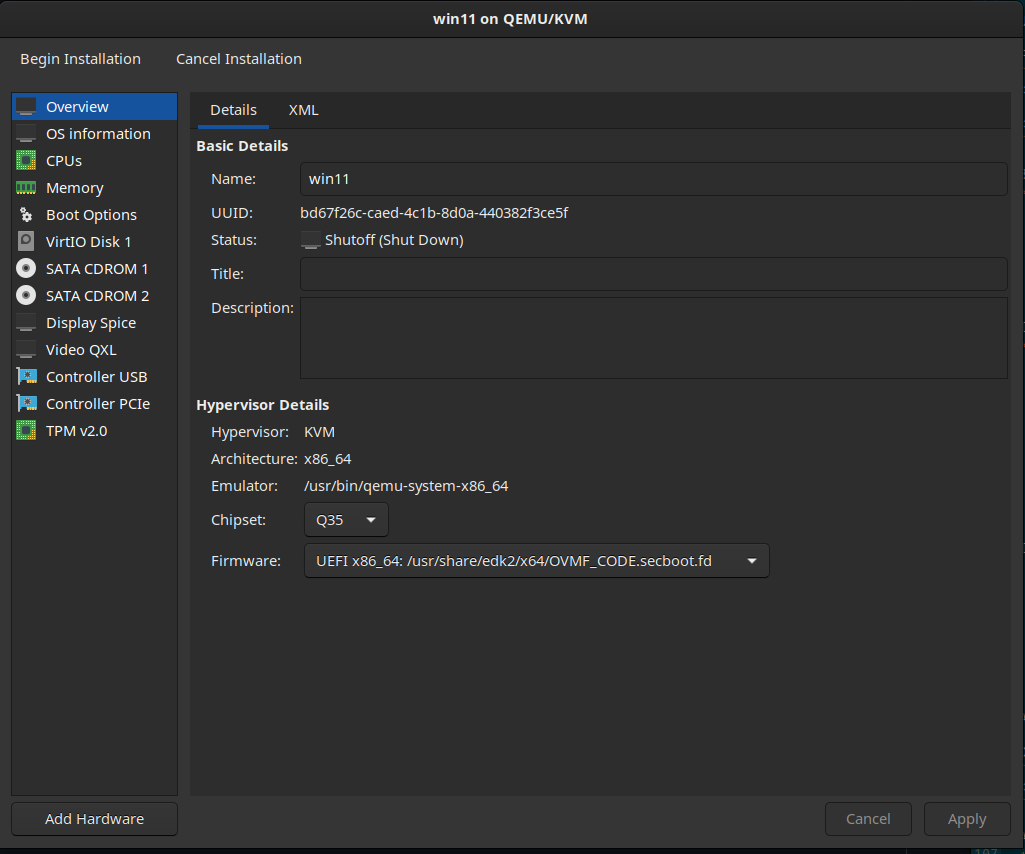
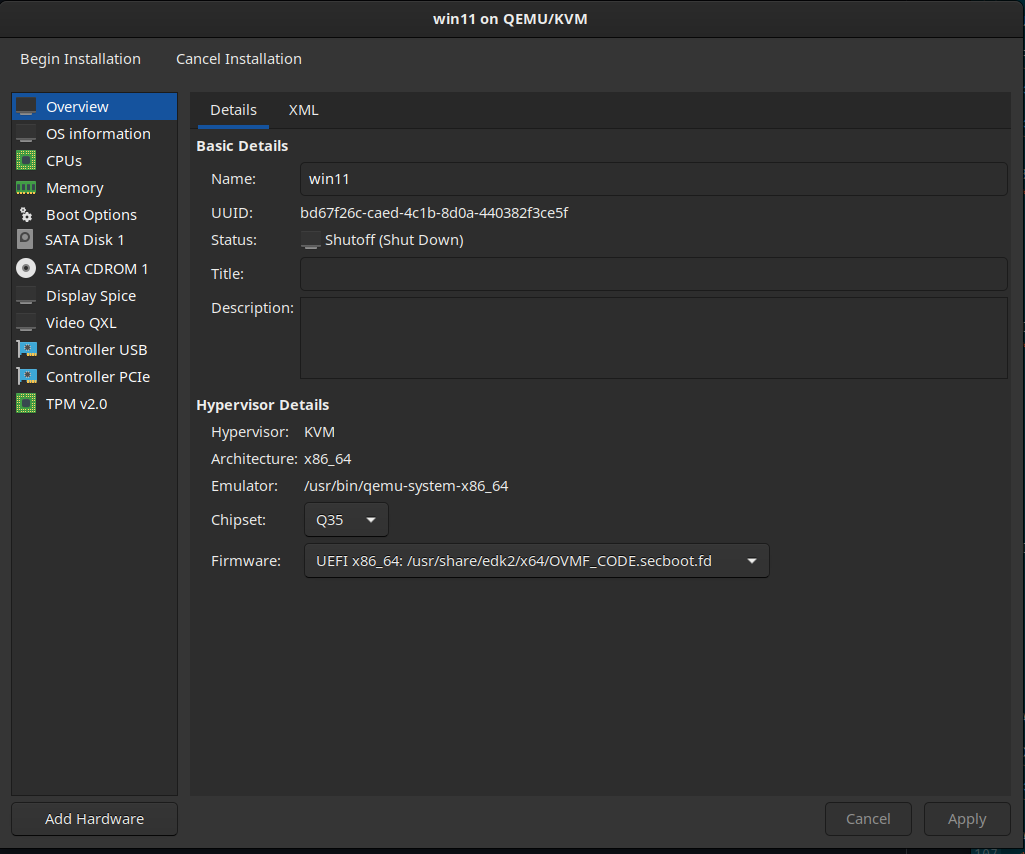
remove setup for virtio disk

Changed region(s): [[0.0, 0.3349, 0.1561, 0.5176], [0.0, 0.274, 0.1249, 0.3044]]

diff --git a/README.md b/README.md
@@ -53,7 +53,7 @@ To configure libvirt run the script which configures libvirt and QEMU by typing 
 
 ### Setting up Windows 11 VM
 
-* Open the virt-manager and prepare Windows iso, also use the ``raw`` image ``virtio`` disk. For Windows 11, you need to have over 54 GB of storage space.
+* Open the virt-manager and prepare Windows iso, I used ``sata`` and ``qcow2`` for the disk type. For Windows 11, you need to have over 54 GB of storage space.
 
 * Use the ``Q35`` chipset and ``OVMF_CODE.secboot.fd`` bootloader. 
     
@@ -63,32 +63,10 @@ To configure libvirt run the script which configures libvirt and QEMU by typing 
     <backend type="emulator" version="2.0"/>
   </tpm>
   ```
-
-* Before installing Windows, mount the [virtio-win.iso](https://fedorapeople.org/groups/virt/virtio-win/direct-downloads/) disk first in virt-manager alongside the windows iso
-  * <details>
-	
-      <summary>virt-manager virtio-win.iso mounting</summary>
-  
-      ![Screenshot from 2022-05-23 15-24-43](https://user-images.githubusercontent.com/32335484/169831867-c173ccae-de54-4bf4-bf7e-e1a29f855f33.png)
-
-    </details>
     
 * Your VM settings should look similar to this before starting the installation. You can remove all unnecessary devices before starting the installation.
 
 	![VM setup before installation](https://github.com/stele95/AMD-Single-GPU-Passthrough/blob/4bc2714a5ace13cf20bf6e84c1039ce800763452/images/VM%20setup%20before%20installation.png)
-
-* In order to recognize virtio disk when running installation, don't forget to load virtio driver from virtio-win.iso in the Windows installation.
-  * <details>
-	
-      <summary>Virtio storage driver loading procedure</summary>
-  
-      ![Screenshot from 2022-05-21 17-31-56](https://user-images.githubusercontent.com/32335484/169829750-a95c0d90-78ed-4b86-ad86-9d6f71557cf7.png)
-	
-      ![Screenshot from 2022-05-21 17-31-11](https://user-images.githubusercontent.com/32335484/169829787-58e1fa9e-994d-4b45-8726-9e28ce684049.png)
-	
-      ![Screenshot from 2022-05-21 17-32-27](https://user-images.githubusercontent.com/32335484/169829829-476fd7c4-fa7e-43f5-b0ee-de57a5d0e833.png)
-
-    </details>
     
 * If installing Windows 11, remove the network adapter from the VM (NIC :xx:xx:xx) or disconnect from the internet on your host OS before starting the installation because windows 11 setup forces you to log in with a microsoft account. 
 	- Install Windows. 
@@ -99,8 +77,6 @@ To configure libvirt run the script which configures libvirt and QEMU by typing 
     	- type in ``BypassNRO.cmd`` and press enter
 
     This will restart your PC and you should see the "I don't have internet" button once you get to the "Connect to a network" screen and you should be able to setup a local account like this
-
-* After the installation, boot into Windows and install all virtio drivers from the device manager. You can get drivers from virtio-win.iso. Just load all drivers from virtio-win.iso through ```Add driver``` option in Device Manager
 
 * Disable memballoon in your xml file:
   ```
@@ -325,7 +301,7 @@ echo 0 > $PATH_TO_ROM
 * CPU pinning
 	
 	- It is a general recommendation to leave core 0 from all CCXs to the host.
-	- Since I have a 5900x with 12c/24t, I will be passing 8c/16t with a setup of 4c/8t from the same CCX to the VM, so it will be two CCXs with 4c/8t. The rest will be pinned to host and iothread. If you have a different CPU, this config will not apply to you, but you can check for a more detailed information on how to set this up [here](https://github.com/bryansteiner/gpu-passthrough-tutorial#----cpu-pinning) and [here](https://wiki.archlinux.org/title/PCI_passthrough_via_OVMF#CPU_topology). If using ``lstopo`` and you have ``PU#`` and ``P#`` for threads, look at the ``P#`` value for the thread id.
+	- Since I have a 5900x with 12c/24t, I will be passing 8c/16t with a setup of 4c/8t from the same CCX to the VM, so it will be two CCXs with 4c/8t. The rest will be pinned to host. If you have a different CPU, this config will not apply to you, but you can check for a more detailed information on how to set this up [here](https://github.com/bryansteiner/gpu-passthrough-tutorial#----cpu-pinning) and [here](https://wiki.archlinux.org/title/PCI_passthrough_via_OVMF#CPU_topology). If using ``lstopo`` and you have ``PU#`` and ``P#`` for threads, look at the ``P#`` value for the thread id.
 	- You can also use ``virsh capabilities`` and look for a ``<cache>`` part, this will tell you how your cores/threads are separated per L3 cache. It should look something like this:
 	```
 	<cache>
@@ -338,7 +314,6 @@ echo 0 > $PATH_TO_ROM
 	
 	```
 	<vcpu placement="static">16</vcpu>
-	<iothreads>1</iothreads>
     <cputune>
       <vcpupin vcpu="0" cpuset="2"/>
       <vcpupin vcpu="1" cpuset="14"/>
@@ -356,8 +331,7 @@ echo 0 > $PATH_TO_ROM
       <vcpupin vcpu="13" cpuset="22"/>
       <vcpupin vcpu="14" cpuset="11"/>
       <vcpupin vcpu="15" cpuset="23"/>
-      <emulatorpin cpuset="0,12,6,18"/>
-      <iothreadpin iothread='1' cpuset='1,13,7,19'/>
+      <emulatorpin cpuset="0-1,12-13,6-7,18-19"/>
 	</cputune>
 	```
 	
@@ -374,8 +348,6 @@ echo 0 > $PATH_TO_ROM
         <feature policy='require' name='invtsc'/>
       </cpu>  
 	```
-	
-	Also, if using virtio disk, make sure to update it with ``iothread``: ``<driver name="qemu" type="raw" cache="none" io="native" discard="unmap" iothread="1" queues="8"/>``. If not, you can remove the ``iothread`` from the code above.
     
     
 * CPU Governor
